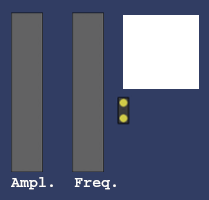
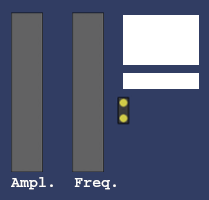
minor bug fix

Changed region(s): [[0.5742, 0.3, 0.9761, 0.39]]

diff --git a/src/parts/part_push_buttons_an.cc b/src/parts/part_push_buttons_an.cc
@@ -60,7 +60,7 @@ cpart_pbuttons_an::cpart_pbuttons_an(unsigned x, unsigned y)
 
  output_pins[0] = 0;
 
- output_value = active*5.0;
+ output_value = active * 5.0;
 
  refresh = 0;
 }
@@ -69,7 +69,7 @@ void
 cpart_pbuttons_an::Reset(void)
 {
  //release all
- output_value =  active* 5.0;
+ output_value = active * 5.0;
 
  refresh = 0;
 
@@ -88,7 +88,8 @@ cpart_pbuttons_an::Draw(void)
 {
 
  int i;
-
+ String temp;
+ float ftemp;
  canvas.Init ();
 
  lxFont font (9, lxFONTFAMILY_TELETYPE, lxFONTSTYLE_NORMAL, lxFONTWEIGHT_BOLD);
@@ -100,6 +101,20 @@ cpart_pbuttons_an::Draw(void)
    switch (output[i].id)
     {
     case O_P1:
+     canvas.SetColor (49, 61, 99);
+     canvas.Rectangle (1, output[i].x1, output[i].y1, output[i].x2 - output[i].x1, output[i].y2 - output[i].y1+12);
+     canvas.SetFgColor (255, 255, 255);
+     if(active) 
+        ftemp=(5.0*(output[i].id - O_P1))/8.0;
+     else
+        ftemp=(5.0*(8-output[i].id - O_P1))/8.0;
+     temp=String().Format("%3.1f",ftemp)+lxT("V");
+     canvas.Text (temp, output[i].x1, output[i].y1);
+     if (output_pins[0] == 0)
+      canvas.Text ("NC", output[i].x1, output[i].y1+12);
+     else
+      canvas.Text (Window5.GetPinName (output_pins[0]), output[i].x1, output[i].y1+12);
+     break;
     case O_P2:
     case O_P3:
     case O_P4:
@@ -110,10 +125,13 @@ cpart_pbuttons_an::Draw(void)
      canvas.SetColor (49, 61, 99);
      canvas.Rectangle (1, output[i].x1, output[i].y1, output[i].x2 - output[i].x1, output[i].y2 - output[i].y1);
      canvas.SetFgColor (255, 255, 255);
-     if (output_pins[0] == 0)
-      canvas.Text ("NC", output[i].x1, output[i].y1);
+     if(active) 
+        ftemp=(5.0*(output[i].id - O_P1))/8.0;
      else
-      canvas.Text (Window5.GetPinName (output_pins[0]), output[i].x1, output[i].y1);
+        ftemp=(5.0*(8-output[i].id - O_P1))/8.0;
+      
+     temp=String().Format("%3.1f",ftemp)+lxT("V");
+     canvas.Text (temp, output[i].x1, output[i].y1);
      break;
     }
 
@@ -150,22 +168,22 @@ cpart_pbuttons_an::EvMouseButtonPress(uint button, uint x, uint y, uint state)
 
      switch (input[i].id)
       {
-      
-      case I_B1: output_value = (active*5.0*(0.0/8.0))+((!active)*5.0*(8.0/8.0));
+
+      case I_B1: output_value = (active * 5.0 * (0.0 / 8.0))+((!active)*5.0 * (8.0 / 8.0));
        break;
-      case I_B2: output_value = (active*5.0*(1.0/8.0))+((!active)*5.0*(7.0/8.0));
+      case I_B2: output_value = (active * 5.0 * (1.0 / 8.0))+((!active)*5.0 * (7.0 / 8.0));
        break;
-      case I_B3: output_value = (active*5.0*(2.0/8.0))+((!active)*5.0*(6.0/8.0));
+      case I_B3: output_value = (active * 5.0 * (2.0 / 8.0))+((!active)*5.0 * (6.0 / 8.0));
        break;
-      case I_B4: output_value = (active*5.0*(3.0/8.0))+((!active)*5.0*(5.0/8.0));
+      case I_B4: output_value = (active * 5.0 * (3.0 / 8.0))+((!active)*5.0 * (5.0 / 8.0));
        break;
-      case I_B5: output_value = (active*5.0*(4.0/8.0))+((!active)*5.0*(4.0/8.0));
+      case I_B5: output_value = (active * 5.0 * (4.0 / 8.0))+((!active)*5.0 * (4.0 / 8.0));
        break;
-      case I_B6: output_value = (active*5.0*(5.0/8.0))+((!active)*5.0*(3.0/8.0));
+      case I_B6: output_value = (active * 5.0 * (5.0 / 8.0))+((!active)*5.0 * (3.0 / 8.0));
        break;
-      case I_B7: output_value = (active*5.0*(6.0/8.0))+((!active)*5.0*(2.0/8.0));
+      case I_B7: output_value = (active * 5.0 * (6.0 / 8.0))+((!active)*5.0 * (2.0 / 8.0));
        break;
-      case I_B8: output_value = (active*5.0*(7.0/8.0))+((!active)*5.0*(1.0/8.0));
+      case I_B8: output_value = (active * 5.0 * (7.0 / 8.0))+((!active)*5.0 * (1.0 / 8.0));
        break;
       }
     }
@@ -183,21 +201,21 @@ cpart_pbuttons_an::EvMouseButtonRelease(uint button, uint x, uint y, uint state)
     {
      switch (input[i].id)
       {
-      case I_B1: output_value = active*5.0;
+      case I_B1: output_value = active * 5.0;
        break;
-      case I_B2: output_value = active*5.0;
+      case I_B2: output_value = active * 5.0;
        break;
-      case I_B3: output_value = active*5.0;
+      case I_B3: output_value = active * 5.0;
        break;
-      case I_B4: output_value = active*5.0;
+      case I_B4: output_value = active * 5.0;
        break;
-      case I_B5: output_value = active*5.0;
+      case I_B5: output_value = active * 5.0;
        break;
-      case I_B6: output_value = active*5.0;
+      case I_B6: output_value = active * 5.0;
        break;
-      case I_B7: output_value = active*5.0;
+      case I_B7: output_value = active * 5.0;
        break;
-      case I_B8: output_value = active*5.0;
+      case I_B8: output_value = active * 5.0;
        break;
       }
     }
@@ -264,7 +282,7 @@ void
 cpart_pbuttons_an::ReadPreferences(String value)
 {
  sscanf (value.c_str (), "%hhu,%hhu", &output_pins[0], &active);
- output_value =  active*5.0;
+ output_value = active * 5.0;
 }
 
 CPWindow * WProp_pbuttons_an;
@@ -305,7 +323,7 @@ cpart_pbuttons_an::ReadPropertiesWindow(void)
 
  active = (((CCombo*) WProp_pbuttons_an->GetChildByName ("combo9"))->GetText ().compare ("HIGH") == 0);
 
- output_value = active*5.0;
+ output_value = active * 5.0;
 
 }
 

diff --git a/src/parts/part_SignalGenerator.cc b/src/parts/part_SignalGenerator.cc
@@ -31,13 +31,13 @@
 /* outputs */
 enum
 {
- O_P1, O_P2, O_PO1, O_PO2, O_TP, O_AMPL, O_FREQ
+ O_P1, O_P2, O_PO1, O_PO2, O_TP, O_AMPL, O_FREQ, O_MF
 };
 
 /* inputs */
 enum
 {
- I_PO1, I_PO2, I_TP
+ I_PO1, I_PO2, I_TP, I_MF
 };
 
 cpart_SignalGenerator::cpart_SignalGenerator(unsigned x, unsigned y)
@@ -65,6 +65,7 @@ cpart_SignalGenerator::cpart_SignalGenerator(unsigned x, unsigned y)
 
  type = 0;
  ts = 0;
+ maxfreq=1;
 }
 
 cpart_SignalGenerator::~cpart_SignalGenerator(void)
@@ -81,7 +82,8 @@ cpart_SignalGenerator::Draw(void)
  String temp;
  float v[2];
  float tsi;
- int size;
+ int sizex;
+ int sizey;
  canvas.Init ();
 
  lxFont font (9, lxFONTFAMILY_TELETYPE, lxFONTSTYLE_NORMAL, lxFONTWEIGHT_BOLD);
@@ -121,9 +123,10 @@ cpart_SignalGenerator::Draw(void)
     
      v[0]= 0;
      tsi = 0;
-     size = output[i].x2 - output[i].x1;
-
-     for (j = 1; j < size; j++)
+     sizex = output[i].x2 - output[i].x1;
+     sizey = output[i].y2 - output[i].y1;
+     
+     for (j = 1; j < sizex; j++)
       {
        v[1]=v[0];
        switch (type)
@@ -138,12 +141,10 @@ cpart_SignalGenerator::Draw(void)
          v[0] = ((acos (sin (tsi)) / 1.5708) - 1) ;
          break;
         }
-       tsi += 3*6.28/size;
+       tsi += 3*6.28/sizex;
        if(j > 0)
-        {
-          //canvas.Point (output[i].x1+j,output[i].y1+((v+2.0)*size/4.0));
-          
-          canvas.Line (output[i].x1+j-1,output[i].y1+((v[1]+2.0)*size/4.0),output[i].x1+j,output[i].y1+((v[0]+2.0)*size/4.0));
+        {       
+          canvas.Line (output[i].x1+j-1,output[i].y1+((v[1]+2.0)*sizey/4.0),output[i].x1+j,output[i].y1+((v[0]+2.0)*sizey/4.0));
         }
       }
 
@@ -162,6 +163,13 @@ cpart_SignalGenerator::Draw(void)
      canvas.SetFgColor (255, 255, 255);
      canvas.Text (temp, output[i].x1, output[i].y1);
      break;
+    case O_MF:
+     canvas.SetColor (255, 255, 255);
+     canvas.Rectangle (1, output[i].x1, output[i].y1, output[i].x2 - output[i].x1, output[i].y2 - output[i].y1);
+     canvas.SetColor (0, 0, 0);
+     temp.Printf ("F x %i", maxfreq);
+     canvas.Text (temp, output[i].x1, output[i].y1);
+     break;  
     }
   }
 
@@ -175,7 +183,7 @@ cpart_SignalGenerator::PreProcess(void)
  JUMPSTEPS_ = (Window1.GetBoard ()->MGetInstClock () / 250000);
  mcount = JUMPSTEPS_;
 
- freq = (10000 * values[1] / 148.0);
+ freq = (maxfreq * values[1] / 148.0);
  ampl = (2.5 * values[0] / 148.0);
 }
 
@@ -203,7 +211,10 @@ cpart_SignalGenerator::Process(void)
     }
    ts += 4e-6;
 
-   if (ts > 1e6)ts = ts - 1e6;
+   if (ts >= 128)
+    {
+     ts = ts - 128;
+    }
 
    Window5.SetAPin (input_pins[0], v);
 
@@ -240,6 +251,10 @@ cpart_SignalGenerator::EvMouseButtonPress(uint button, uint x, uint y, uint stat
        type++;
        if (type > 2)type = 0;
        break;
+      case I_MF:
+       maxfreq*=10;
+       if (maxfreq > 10000)maxfreq = 1;
+       break;  
       }
     }
   }
@@ -308,10 +323,11 @@ cpart_SignalGenerator::get_in_id(char * name)
  if (strcmp (name, "PO1") == 0)return I_PO1;
  if (strcmp (name, "PO2") == 0)return I_PO2;
  if (strcmp (name, "TP") == 0)return I_TP;
-
+ if (strcmp (name, "MF") == 0)return I_MF;
+ 
  printf ("Erro input '%s' don't have a valid id! \n", name);
  return -1;
-};
+}
 
 unsigned short
 cpart_SignalGenerator::get_out_id(char * name)
@@ -325,6 +341,7 @@ cpart_SignalGenerator::get_out_id(char * name)
  if (strcmp (name, "TP") == 0)return O_TP;
  if (strcmp (name, "AMPL") == 0)return O_AMPL;
  if (strcmp (name, "FREQ") == 0)return O_FREQ;
+ if (strcmp (name, "MF") == 0)return O_MF;
 
  printf ("Erro output '%s' don't have a valid id! \n", name);
  return 1;
@@ -335,7 +352,7 @@ cpart_SignalGenerator::WritePreferences(void)
 {
  char prefs[256];
 
- sprintf (prefs, "%hhu,%hhu,%hhu,%hhu", input_pins[0], values[0], values[1], type);
+ sprintf (prefs, "%hhu,%hhu,%hhu,%hhu,%u", input_pins[0], values[0], values[1], type,maxfreq);
 
  return prefs;
 }
@@ -343,7 +360,7 @@ cpart_SignalGenerator::WritePreferences(void)
 void
 cpart_SignalGenerator::ReadPreferences(String value)
 {
- sscanf (value.c_str (), "%hhu,%hhu,%hhu,%hhu", &input_pins[0], &values[0], &values[1], &type);
+ sscanf (value.c_str (), "%hhu,%hhu,%hhu,%hhu,%u", &input_pins[0], &values[0], &values[1], &type, &maxfreq);
 }
 
 CPWindow * WProp_SignalGenerator;

diff --git a/src/parts/part_VCD_Dump.cc b/src/parts/part_VCD_Dump.cc
@@ -453,13 +453,17 @@ cpart_VCD_Dump::EvMouseButtonPress(uint button, uint x, uint y, uint state)
       case I_START:
        if (!rec)
         {
+         unsigned int tscale= 1.0e9/Window1.GetBoard ()->MGetInstClock (); //ns step
+         
          f_vcd = fopen (f_vcd_name, "w");
          vcd_count = 0;
+         
+         
 
 #ifndef DUMP_DIR         
          fprintf (f_vcd,
                   "$version Generated by PICSimLab $end\n"
-                  "$timescale 10ns $end\n"
+                  "$timescale %ins $end\n"
                   "$scope module logic $end\n"
                   "$var wire 1 !  1-%s $end\n"
                   "$var wire 1 $  2-%s $end\n"
@@ -500,7 +504,7 @@ cpart_VCD_Dump::EvMouseButtonPress(uint button, uint x, uint y, uint state)
                   "bxxxxxxxx ?\n"
                   "bxxxxxxxx ^\n"
 #endif             
-                  "$end\n",
+                  "$end\n",tscale,
                   (const char *) Window5.GetPinName (input_pins[0]).c_str (),
                   (const char *) Window5.GetPinName (input_pins[1]).c_str (),
                   (const char *) Window5.GetPinName (input_pins[2]).c_str (),

diff --git a/src/parts/part_SignalGenerator.h b/src/parts/part_SignalGenerator.h
@@ -75,6 +75,7 @@ private:
     int JUMPSTEPS_;
     float freq;
     float ampl;
+    unsigned int maxfreq;
 };
 
 
